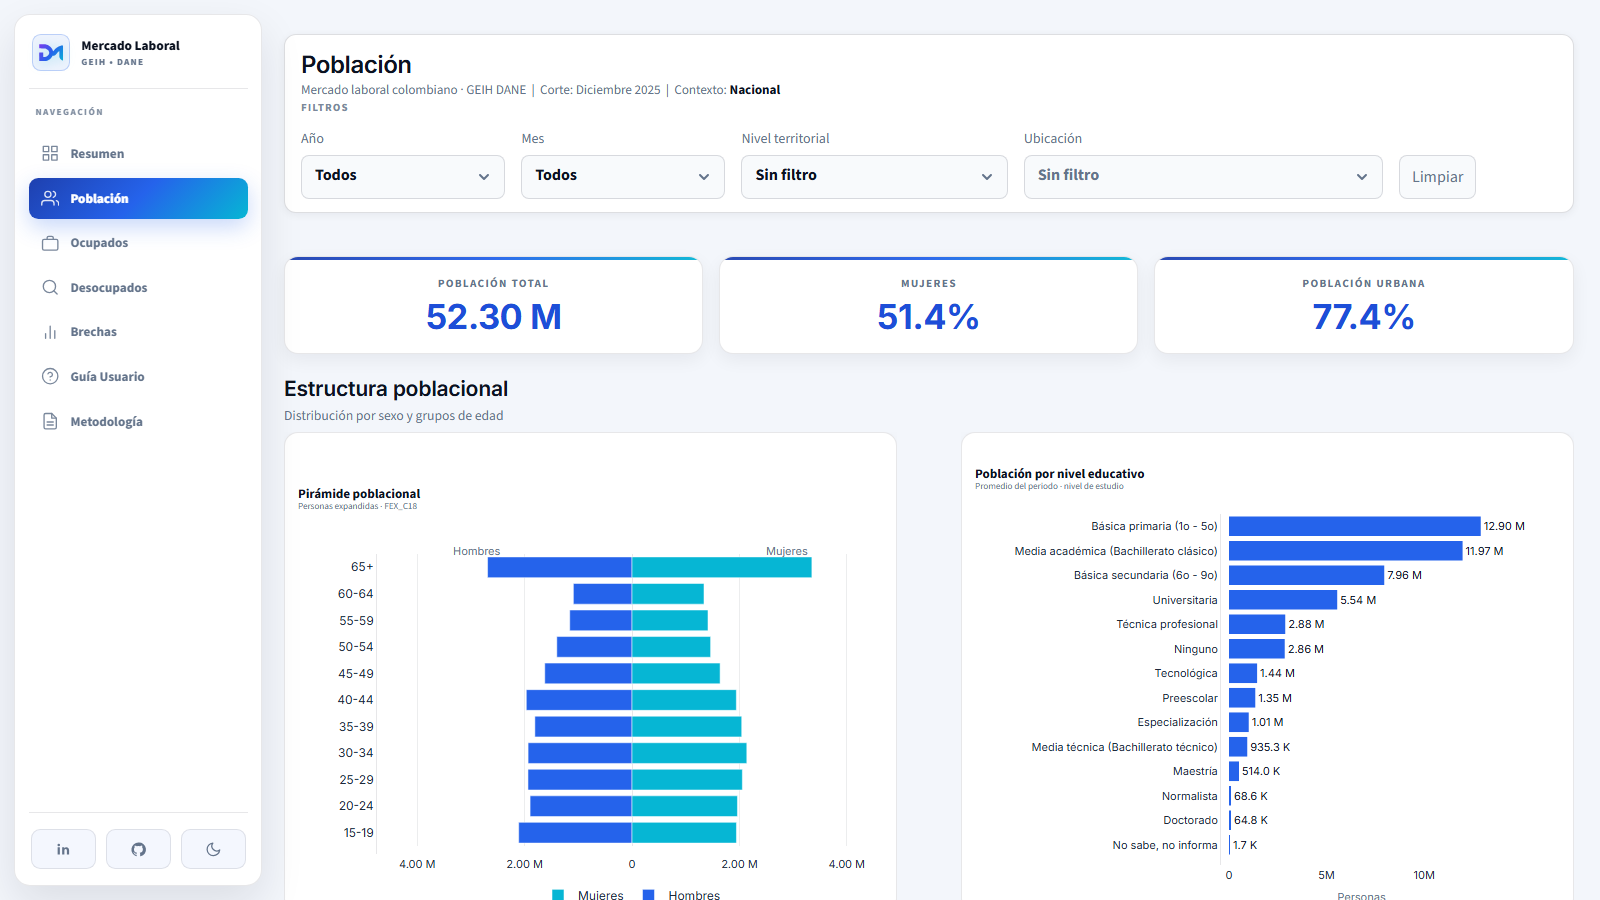
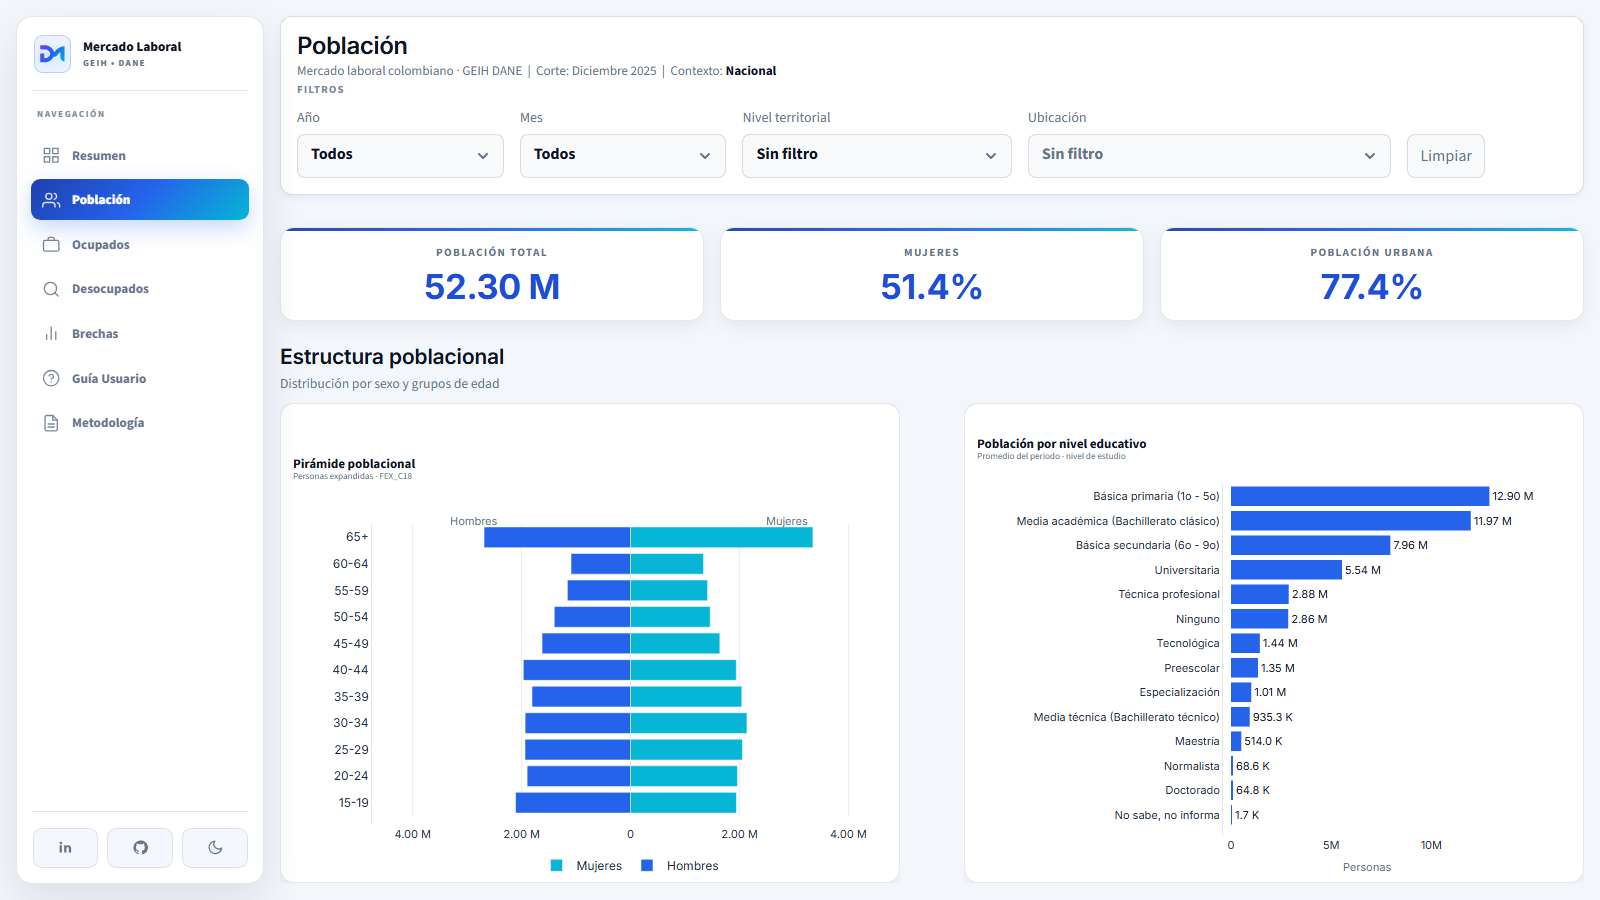
feat: layout global con cuadricula de 8px y bloqueo de auto-traduccion (DT-020)
- Sistema de espaciado unico: gutter 1rem, padding de cards 1rem, separadores
  0.5rem/1rem; mobile y breakpoints con el mismo gutter
- Las 7 vistas arrancan en el mismo eje [280,16], verificado con Playwright
- Wrappers de elementos fijos (sidebar, tabbar, <style>, iframe) fuera del
  flujo flex: eliminan ~48px fantasma sobre el contenido
- Guia y Metodologia alineadas al eje izquierdo comun (sin centrado)
- Documento declarado lang=es + notranslate: el traductor de Chrome corrompia
  pp -> pags. y TO -> A en los KPIs de Brechas
- Capturas del README regeneradas

diff --git a/app/main.py b/app/main.py
@@ -11,6 +11,7 @@ import pandas as pd
 import plotly.express as px
 import plotly.graph_objects as go
 import streamlit as st
+import streamlit.components.v1 as components
 from plotly.subplots import make_subplots
 
 sys.path.insert(0, str(Path(__file__).parent.parent))
@@ -478,9 +479,13 @@ def inject_styles(theme_name: str) -> None:
     dropdown_hover = "rgba(37,99,235,0.10)" if is_light else "rgba(6,182,212,0.16)"
     chrome_shadow = "0 6px 18px rgba(15,23,42,0.06)" if is_light else "0 15px 35px rgba(0,0,0,0.35)"
     chart_shadow = "0 10px 24px rgba(15,23,42,0.06)" if is_light else "0 15px 35px rgba(0,0,0,0.35)"
+    # Sistema de espaciado global — cuadrícula de 8px (0.5rem):
+    #   gutter página/sidebar/contenido = 1rem (16px), padding de cards = 1rem,
+    #   separación entre secciones = 0.5rem/1rem. Todas las vistas comparten
+    #   el mismo eje de inicio (sidebar top = contenido top = 1rem).
     sidebar_width = "15.5rem"
-    sidebar_gap = "0.9rem"
-    content_left = "16.85rem"
+    sidebar_gap = "1rem"
+    content_left = "16.5rem"  # sidebar_gap + sidebar_width
 
     # Color para botón de limpiar
     btn_clear_bg = "#F8FAFC" if is_light else "#18233C"
@@ -525,10 +530,10 @@ def inject_styles(theme_name: str) -> None:
             background: {t['panel_bg']} !important;
             border: 1px solid {select_border} !important;
             border-radius: 12px !important;
-            padding: 0.85rem 1rem !important;
+            padding: 1rem !important;
             box-shadow: {"0 2px 8px rgba(15,23,42,0.06)" if is_light else "0 10px 24px rgba(0,0,0,0.20), inset 0 0 0 1px rgba(255,255,255,0.04)"} !important;
-            margin-top: -0.85rem !important;
-            margin-bottom: 0.68rem !important;
+            margin-top: 0 !important;
+            margin-bottom: 1rem !important;
         }}
         .st-key-hero_filters_card > div,
         .st-key-hero_filters_card [data-testid="stVerticalBlockBorderWrapper"] > div {{
@@ -547,10 +552,10 @@ def inject_styles(theme_name: str) -> None:
             max-width: calc(100vw - {content_left}) !important;
             margin-left: {content_left} !important;
             margin-right: 0 !important;
-            padding-left: 0.9rem !important;
-            padding-right: 1.65rem !important;
-            padding-top: 0 !important;
-            padding-bottom: 0.9rem !important;
+            padding-left: 1rem !important;
+            padding-right: 1rem !important;
+            padding-top: 1rem !important;
+            padding-bottom: 1.5rem !important;
             box-sizing: border-box !important;
         }}
 
@@ -560,11 +565,27 @@ def inject_styles(theme_name: str) -> None:
             [data-testid="stAppViewContainer"] .block-container {{ 
                 width: 100% !important;
                 max-width: 100% !important;
-                margin-left: 0 !important; 
-                padding-left: 1.5rem !important;
-                padding-right: 1.5rem !important;
+                margin-left: 0 !important;
+                padding-left: 1rem !important;
+                padding-right: 1rem !important;
             }}
             .fixed-sidebar {{ display: none !important; }}
+        }}
+
+        /* Los wrappers de los elementos fijos (sidebar / tabbar) no deben ocupar
+           slot en el flujo vertical (el gap del flex los cuenta aunque midan 0px
+           de alto): fuera del flujo con position:absolute. */
+        [data-testid="stElementContainer"]:has(.fixed-sidebar),
+        [data-testid="stElementContainer"]:has(.mobile-tabbar),
+        [data-testid="stElementContainer"]:has(.dm-style-marker),
+        [data-testid="stElementContainer"]:has(> [data-testid="stIFrame"]),
+        [data-testid="element-container"]:has(.fixed-sidebar),
+        [data-testid="element-container"]:has(.mobile-tabbar),
+        [data-testid="element-container"]:has(.dm-style-marker) {{
+            position: absolute;
+            width: 0;
+            height: 0;
+            overflow: visible;
         }}
 
         .fixed-sidebar {{
@@ -736,8 +757,8 @@ def inject_styles(theme_name: str) -> None:
         .pill-row {{
             display: flex;
             flex-wrap: wrap;
-            gap: 0.45rem;
-            margin: 0.42rem 0 0.08rem;
+            gap: 0.5rem;
+            margin: 0 0 0.5rem;
         }}
         .pill {{
             background: {t['input_bg']};
@@ -755,7 +776,7 @@ def inject_styles(theme_name: str) -> None:
             font-weight: 800;
             text-transform: uppercase;
             letter-spacing: 0.1em;
-            margin-bottom: 0.65rem;
+            margin-bottom: 0.5rem;
             opacity: 0.85;
         }}
 
@@ -766,7 +787,7 @@ def inject_styles(theme_name: str) -> None:
         }}
         .card {{
             border-radius: 14px;
-            padding: 1.1rem 1rem 1.2rem;
+            padding: 1rem;
             height: auto;
             position: relative;
             overflow: hidden;
@@ -785,14 +806,14 @@ def inject_styles(theme_name: str) -> None:
         }}
         .mini-card {{
             border-radius: 12px;
-            padding: 0.7rem 0.85rem;
+            padding: 0.5rem 1rem;
         }}
         /* Tarjeta-contenedor para cada st.plotly_chart (visualmente la del spec) */
         [data-testid="stPlotlyChart"] {{
             background: {t['panel_bg']} !important;
             border: 1px solid {t['line']} !important;
             border-radius: 14px !important;
-            padding: 0.55rem 0.55rem 0.4rem !important;
+            padding: 0.5rem !important;
             box-shadow: {chart_shadow} !important;
             height: 100%;
         }}
@@ -845,8 +866,8 @@ def inject_styles(theme_name: str) -> None:
         .map-extreme-card {{
             border: 1px solid {t['line']};
             border-radius: 8px;
-            padding: 0.85rem 0.95rem;
-            margin-top: 0.72rem;
+            padding: 1rem;
+            margin-top: 0.5rem;
             background: {t['panel_solid']};
         }}
         .map-extreme-label {{
@@ -879,7 +900,7 @@ def inject_styles(theme_name: str) -> None:
             font-weight: 700;
             text-transform: uppercase;
             letter-spacing: 0.12em;
-            margin-bottom: 0.45rem;
+            margin-bottom: 0.5rem;
         }}
         .kpi-value {{
             color: {t['kpi']};
@@ -911,7 +932,7 @@ def inject_styles(theme_name: str) -> None:
             color: {t['muted']};
             font-size: 0.8rem;
             line-height: 1.45;
-            margin-top: 0.55rem;
+            margin-top: 0.5rem;
         }}
         .kpi-delta {{
             display: inline-flex;
@@ -926,17 +947,16 @@ def inject_styles(theme_name: str) -> None:
         .kpi-delta.down {{ background: rgba(244,63,94,0.14); color: {t['negative']}; }}
         .kpi-delta.neutral {{ background: {t['input_bg']}; color: {t['muted']}; }}
 
-        .section-gap {{ height: 0.35rem; }}
-        .section-gap-lg {{ height: 0.7rem; }}
+        .section-gap {{ height: 0.5rem; }}
+        .section-gap-lg {{ height: 1rem; }}
         .section-header {{
-            margin: 0.3rem 0 0.35rem;
-            padding-top: 0.05rem;
+            margin: 0.5rem 0;
             border-top: 1px solid {t['line']};
             padding-top: 0.5rem;
         }}
         .section-header:first-of-type {{
             border-top: none;
-            padding-top: 0.1rem;
+            padding-top: 0;
         }}
         .section-header-title {{
             color: {t['text']};
@@ -970,8 +990,8 @@ def inject_styles(theme_name: str) -> None:
             border: 1px solid {t['line']};
             border-left: 4px solid {BT_DEEP};
             border-radius: 10px;
-            padding: 1.05rem 1.2rem 1.1rem;
-            margin: 1rem 0 1.4rem;
+            padding: 1rem;
+            margin: 1rem 0 1.5rem;
             color: {t['soft_text']};
             line-height: 1.55;
             box-shadow: {chart_shadow};
@@ -1104,9 +1124,9 @@ def inject_styles(theme_name: str) -> None:
                 width: 100% !important;
                 max-width: 100% !important;
                 margin-left: 0 !important;
-                padding-left: 0.75rem !important;
-                padding-right: 0.75rem !important;
-                padding-top: 0.5rem !important;
+                padding-left: 1rem !important;
+                padding-right: 1rem !important;
+                padding-top: 1rem !important;
                 padding-bottom: 5rem !important;
             }}
 
@@ -1195,22 +1215,11 @@ def inject_styles(theme_name: str) -> None:
             .topbar-sub           {{ font-size: 0.78rem !important; }}
             .interpretation-text  {{ font-size: 0.86rem !important; }}
 
-            /* Cards y paddings más compactos */
-            .card                {{ padding: 0.85rem 0.75rem 0.9rem !important; }}
-            .mini-card           {{ padding: 0.55rem 0.7rem !important; }}
-            .interpretation-block{{ padding: 0.8rem 0.9rem !important; }}
-            [data-testid="stPlotlyChart"] {{ padding: 0.3rem 0.25rem !important; }}
-
-            /* Hero card sin margen negativo en mobile */
-            .st-key-hero_filters_card,
-            .st-key-hero_filters_card [data-testid="stVerticalBlockBorderWrapper"] {{
-                margin-top: 0 !important;
-            }}
-
             /* Mapas — panel de control va debajo del mapa */
             [data-testid="stHorizontalBlock"] {{ flex-wrap: wrap !important; }}
         }}
         </style>
+        <div class="dm-style-marker"></div>
         """,
         unsafe_allow_html=True,
     )
@@ -1470,8 +1479,8 @@ def placeholder(msg: str, icon: str = "🔧"):
 def render_header(view_key: str, ultimo_txt: str, context_label: str):
     label = NAV_LABELS.get(view_key, view_key.capitalize())
     st.markdown(
-        f"""<div style='padding-top: 0.2rem;'>
-<div class='topbar-title' style="font-size: 1.5rem; margin-bottom: 0.2rem;">{label}</div>
+        f"""<div>
+<div class='topbar-title' style="font-size: 1.5rem; margin-bottom: 0.25rem;">{label}</div>
 <div class='topbar-sub'>
 Mercado laboral colombiano · GEIH DANE &nbsp;|&nbsp; Corte: {ultimo_txt}
 &nbsp;|&nbsp; Contexto: <strong>{context_label}</strong>
@@ -3347,8 +3356,10 @@ def _render_guide_doc(t):
         + "</ol>"
     )
 
+    # Mismo eje de inicio que el resto de vistas: alineado a la izquierda,
+    # ancho máximo solo para legibilidad del texto.
     doc = (
-        f"<div style='max-width:900px;margin:0 auto;padding:0.25rem 0.5rem 3rem;"
+        f"<div style='max-width:960px;margin:0;padding:0 0 3rem;"
         f"font-size:0.94rem;color:{TX};line-height:1.72;'>"
         + header + sec1 + sec2 + sec3 + sec4 + sec5
         + "</div>"
@@ -3495,7 +3506,7 @@ def view_metodologia(df):
 
     # ── Render parte A (encabezado + params) ─────────────────────────────────
     doc_a = (
-        "<div style='max-width:960px; margin:0 auto; padding:0.25rem 0.5rem 1rem;'>"
+        "<div style='max-width:960px; margin:0; padding:0 0 1rem;'>"
         + header + sec1
         + "</div>"
     )
@@ -3503,7 +3514,7 @@ def view_metodologia(df):
 
     # ── Chart de cobertura (Plotly, no embebible en HTML) ────────────────────
     st.markdown(
-        "<div style='max-width:960px; margin:0 auto;'>"
+        "<div style='max-width:960px; margin:0;'>"
         + h2("2 · Cobertura procesada")
         + f"<div style='font-size:0.86rem; color:{SF}; margin-bottom:0.5rem;'>"
         + f"Registros agregados por dimensión analítica · {year_range}</div></div>",
@@ -3531,7 +3542,7 @@ def view_metodologia(df):
 
     # ── Render parte B (definiciones + trazabilidad + notas) ─────────────────
     doc_b = (
-        "<div style='max-width:960px; margin:0 auto; padding:0 0.5rem 3rem;'>"
+        "<div style='max-width:960px; margin:0; padding:0 0 3rem;'>"
         + sec3 + sec4 + sec5
         + "</div>"
     )
@@ -3551,6 +3562,24 @@ if _qtheme in ("Dark", "Light"):
 
 ACTIVE_THEME = THEMES[st.session_state["theme_mode"]]
 inject_styles(st.session_state["theme_mode"])
+
+# Declarar el documento como español y no-traducible: el traductor automático de
+# Chrome corrompe términos técnicos ("pp" -> "págs.", "TO" -> "A") y los números.
+components.html(
+    """<script>
+    const doc = window.parent.document;
+    doc.documentElement.lang = "es";
+    doc.documentElement.setAttribute("translate", "no");
+    doc.documentElement.classList.add("notranslate");
+    if (!doc.querySelector('meta[name="google"][content="notranslate"]')) {
+        const m = doc.createElement("meta");
+        m.name = "google";
+        m.content = "notranslate";
+        doc.head.appendChild(m);
+    }
+    </script>""",
+    height=0,
+)
 
 df_all = cargar()
 if df_all.empty:
@@ -3649,7 +3678,6 @@ with title_slot:
 with body_slot:
     if vista not in ("metodologia", "instrucciones"):
         render_filters_summary(ano_ui, mes_ui, geo_level, geo_sel)
-        st.markdown("<div style='height:0.25rem'></div>", unsafe_allow_html=True)
 
     if vista == "resumen":
         view_resumen(df_context, df_dep, df_dep_mapa, df_city, df_city_mapa, context_label, df_tendencia, ano_ui, mes_ui, geo_sel=geo_sel)

diff --git a/docs/decisiones_tecnicas.md b/docs/decisiones_tecnicas.md
@@ -309,3 +309,22 @@ Ultima revision: 2026-05-09 (quinta actualizacion).
 **Tipografia:** Inter (unica familia, como la marca) reemplaza a Fraunces + Manrope en CSS, graficos y documentos HTML.
 
 **Tintas por tema (`THEMES[...]["ink"]`):** los documentos Guia y Metodologia usaban colores de la paleta de graficos como color de texto; sobre fondo oscuro quedaban ilegibles. Cada tema define ahora 6 tintas (`navy/deep/blue/teal/mint/pale`) legibles sobre su fondo, y las vistas de documento las usan sombreando localmente las constantes `BT_*`.
+
+---
+
+## DT-020 - Layout global con cuadricula de 8px (2026-08-02)
+
+**Decision:** unificar el sistema de layout y espaciado de toda la aplicacion en una cuadricula de multiplos de 8px (0.5rem), de modo que las 7 vistas compartan exactamente el mismo eje de inicio y no existan saltos visuales al cambiar de modulo.
+
+**Sistema adoptado (definido en `inject_styles`):**
+
+- Gutter de pagina = 1rem (16px): sidebar en `top/left: 1rem`, `block-container` con `padding: 1rem 1rem 1.5rem` y `margin-left = sidebar_gap + sidebar_width` (16.5rem).
+- Padding interno de cards = 1rem; padding de tarjetas de grafico = 0.5rem; mini-cards 0.5rem 1rem.
+- Separadores: `.section-gap` 0.5rem, `.section-gap-lg` 1rem, `.section-header` margin 0.5rem + padding-top 0.5rem; bloques de interpretacion margin 1rem 0 1.5rem.
+- Mobile y breakpoint <=1200px con el mismo gutter de 1rem.
+
+**Correccion clave:** los `st.markdown` que inyectan elementos `position:fixed` (sidebar, tabbar) y el bloque `<style>` ocupaban slots del flex vertical de Streamlit (el `gap` de 1rem los cuenta aunque midan 0px), desplazando el contenido ~48px hacia abajo. Se sacan del flujo con `position:absolute` via `:has(.fixed-sidebar)`, `:has(.mobile-tabbar)` y un marcador `.dm-style-marker` en el markdown de estilos.
+
+**Alineacion de documentos:** las vistas Guia y Metodologia dejan de centrar su contenido (`margin: 0 auto` -> `margin: 0`); conservan `max-width: 960px` solo por legibilidad, arrancando en el mismo eje izquierdo que las tarjetas del resto de vistas.
+
+**Verificacion:** medicion programatica (Playwright) del primer elemento de cada vista: las 7 vistas inician en el mismo punto `[x=280, y=16]` con sidebar en `[16, 16]` a 1600px de viewport.

diff --git a/spec.md b/spec.md
@@ -241,6 +241,7 @@ Ver `docs/decisiones_tecnicas.md`. Resumen:
 - **DT-012** Botón 'Limpiar Filtros' mediante callbacks para evitar errores de estado.
 - **DT-013** Refuerzo de contraste CSS para selectores en modo claro.
 - **DT-019** Rediseño visual con identidad de marca "Premium Dark Tech" (paleta de `personal_landing/colores_paleta.md` y `shiny-app/www/brand.css`): gradiente azul→cian, superficies oscuras `#0A0E1A`/`#0F1729`, tipografía Inter, KPIs en cian, rampa de gráficos de marca y tintas por tema para documentos. Detalle completo en `docs/decisiones_tecnicas.md`.
+- **DT-020** Layout global con cuadrícula de 8px: gutter uniforme de 1rem, mismo eje de inicio en las 7 vistas (verificado programáticamente en [280,16]), wrappers de elementos fijos fuera del flujo flex, documentos alineados a la izquierda. Detalle en `docs/decisiones_tecnicas.md`.
 
 ---
 
